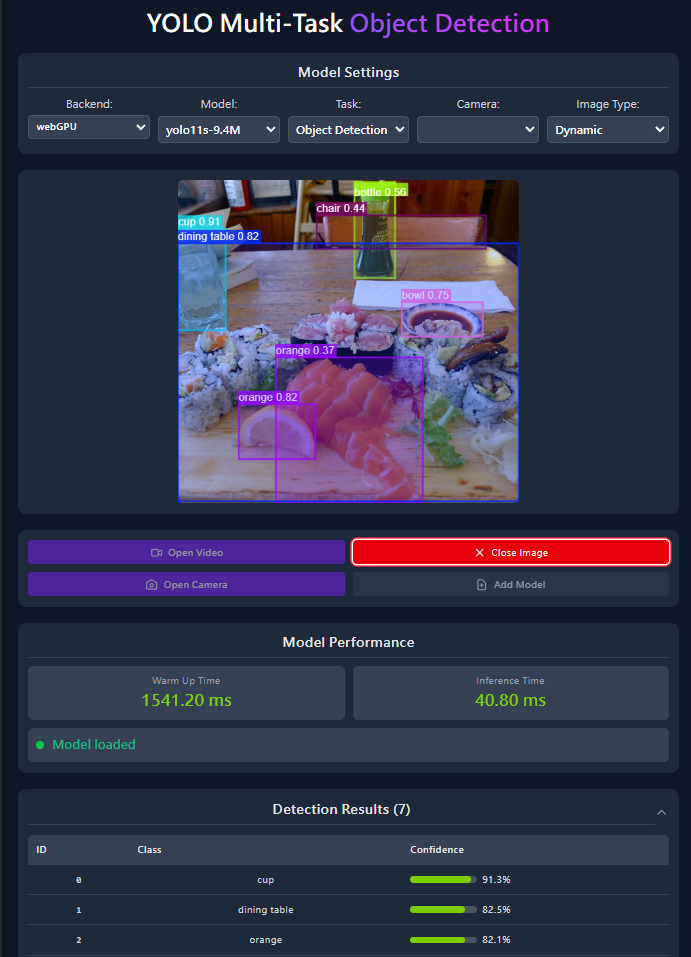
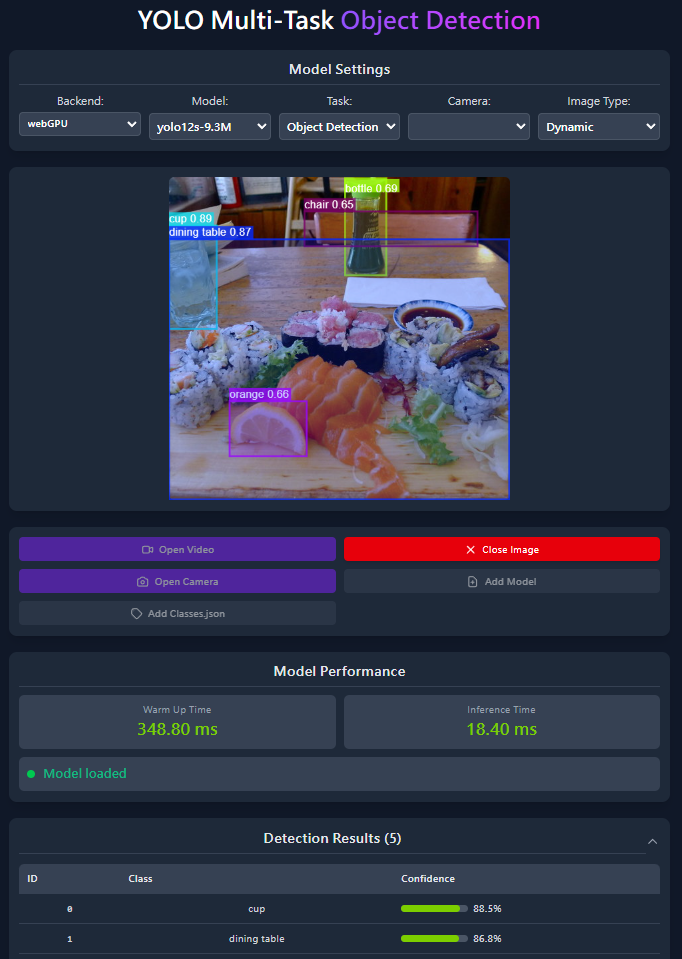
update readme, preview.png

Changed region(s): [[0.0, 0.1818, 0.9853, 1.0], [0.0, 0.0, 0.9853, 0.1515]]

diff --git a/src/App.jsx b/src/App.jsx
@@ -418,7 +418,7 @@ function ControlButtons({
               d="M7 7h.01M7 3h5c.512 0 1.024.195 1.414.586l7 7a2 2 0 010 2.828l-7 7a2 2 0 01-2.828 0l-7-7A1.994 1.994 0 013 12V7a4 4 0 014-4z"
             />
           </svg>
-          Add Classes
+          Add Classes.json
         </button>
       </div>
 

diff --git a/README.md b/README.md
@@ -112,6 +112,16 @@ Replace `"your-custom-model-name"` with the filename of your ONNX model.
 
 ### Step 3: Update class definitions
 
+You have two options to define class labels for your custom model:
+
+#### Option 1: Use the built-in class editor
+
+1. Click the **Add Classes.json** button in the web interface
+2. Upload your custom `classes.json` file OR
+3. Use the default COCO classes by selecting "Use Default Classes"
+
+#### Option 2: Manually update the classes file
+
 Update the `src/utils/yolo_classes.json` file with the class names that your custom model uses. This file should contain a dict of strings representing the class labels.
 
 For example:
@@ -129,6 +139,12 @@ For example:
 ```
 
 Make sure the classes match exactly with those used during training of your custom model.
+
+> 💡 **Tip**: The web interface allows you to:
+>
+> - 📤 Upload custom `classes.json` files for different models
+> - 🔄 Switch between default and custom class definitions
+> - ✅ Validate your class definitions before inference
 
 ### Step 4: Refresh and select your new model 🎉
 
